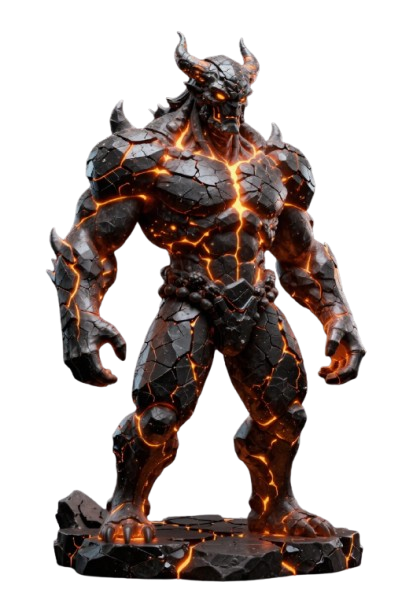
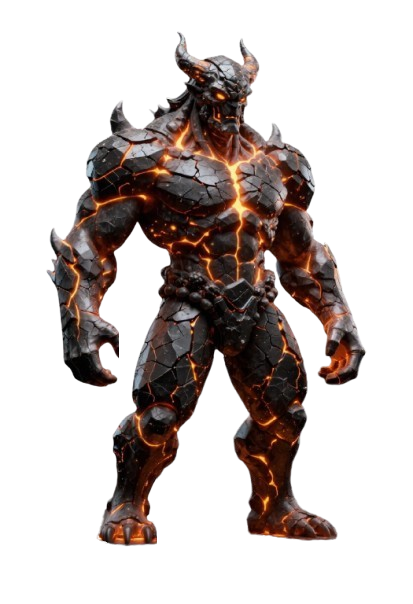
Лавовый Титан: водопад, rim light, heat haze (v2.5.39)
- boss_lava.png — каменный демон с трещинами магмы (skin 2026...)
- bg/lava.png — лавовый водопад в каньоне (bg 6)
- CSS .bt-lava:
  · фон + animation:wb-lava-bg-flicker 3.2s — brightness ±15%
    + hue-rotate ±3° (живая лава мерцает)
  · ::before тёмный туман с оранжевым отблеском (34% высоты)
  · ::after backdrop-filter blur(.7px) + skew над ВСЕЙ сценой
    (z:8) — heat haze дрожит за 4с, маска сверху для плавного края
  · .wb-bimg2: --boss-glow:#ff5520, маска ног 22%, тройная анимация:
    - wb-bfloat 4.2s (медленное парение, тяжесть титана)
    - wb-lava-rim 3.2s (rim light синхронно с фоном)
  · 2-слойный drop-shadow до 44px (без квадратного halo)

Превью: /boss_scene_lava.html

diff --git a/webapp/boss_scene_lava.html b/webapp/boss_scene_lava.html
@@ -1,0 +1,160 @@
+<!doctype html>
+<html lang="ru"><head>
+<meta charset="utf-8">
+<meta name="viewport" content="width=390,initial-scale=1">
+<title>WB · Боевая сцена · ЛАВОВЫЙ ТИТАН</title>
+<style>
+  *{box-sizing:border-box;margin:0;padding:0}
+  html,body{height:100%}
+  body{background:#020005;color:#e0e0e0;font:14px -apple-system,Segoe UI,Roboto,sans-serif;
+    display:flex;align-items:center;justify-content:center;min-height:100vh;padding:18px;}
+  .row{display:flex;flex-wrap:wrap;align-items:flex-start;gap:18px;}
+
+  .scene{position:relative;width:390px;height:680px;border-radius:14px;overflow:hidden;
+    background:#1a0500;border:1px solid rgba(255,80,0,.4);
+    box-shadow:0 0 60px rgba(255,80,0,.3);}
+
+  /* ── 1. ФОН — лавовый водопад, мерцает яркостью ── */
+  .bg{position:absolute;inset:0;z-index:1;
+    background-image:url('bosses/bg/lava.png');
+    background-size:cover;background-position:center bottom;
+    animation:bg-flicker 3.2s ease-in-out infinite;}
+  @keyframes bg-flicker{
+    0%,100%{filter:brightness(.95) saturate(1.05) hue-rotate(0deg)}
+    35%   {filter:brightness(1.15) saturate(1.2)  hue-rotate(-3deg)}
+    60%   {filter:brightness(.92) saturate(1.1)  hue-rotate(2deg)}}
+  /* Тёмный туман с оранжевым у пола */
+  .bg::after{content:"";position:absolute;left:0;right:0;bottom:0;height:34%;
+    background:linear-gradient(to top,
+      rgba(40,5,0,.85) 0%, rgba(80,15,0,.5) 30%,
+      rgba(80,15,0,.15) 65%, transparent 100%);
+    pointer-events:none;}
+
+  /* ── 2. БОСС — на камнях, перед лавопадом ── */
+  .boss-wrap{position:absolute;left:50%;bottom:8%;z-index:5;
+    transform:translateX(-50%);pointer-events:none;
+    height:68%;}
+  .boss{height:100%;width:auto;display:block;
+    -webkit-mask-image:linear-gradient(to bottom,
+      black 0%, black 78%, rgba(0,0,0,.55) 90%, transparent 100%);
+    mask-image:linear-gradient(to bottom,
+      black 0%, black 78%, rgba(0,0,0,.55) 90%, transparent 100%);
+    /* Медленное дыхание + rim light синхронно с фоном */
+    animation:boss-breathe 4.2s ease-in-out infinite,
+              boss-rim 3.2s ease-in-out infinite;}
+  @keyframes boss-breathe{
+    0%,100%{transform:scale(1)    translateY(0)}
+    50%   {transform:scale(1.03)  translateY(-4px)}}
+  /* Rim light — контурное свечение от водопада сзади */
+  @keyframes boss-rim{
+    0%,100%{filter:
+      drop-shadow(0 0 12px rgba(255,90,20,.85))
+      drop-shadow(0 0 26px rgba(220,50,0,.6))
+      brightness(1)
+      saturate(1.15);}
+    50%{filter:
+      drop-shadow(0 0 22px rgba(255,160,40,1))
+      drop-shadow(0 0 44px rgba(255,80,0,.85))
+      brightness(1.15)
+      saturate(1.35);}}
+
+  /* ── 3. ИСКРЫ медленно вверх ── */
+  .vfx{position:absolute;inset:0;z-index:6;pointer-events:none;overflow:hidden;}
+  .p{position:absolute;width:5px;height:5px;border-radius:50%;
+    background:#ff8833;
+    box-shadow:0 0 10px #ff8833,0 0 20px #ff5500;
+    opacity:0;animation:p-up 7s linear infinite;}
+  .p.s2{width:3px;height:3px;animation-duration:9s;background:#ffcc44;
+    box-shadow:0 0 8px #ffcc44,0 0 18px #ffaa00;}
+  .p.s3{width:7px;height:7px;animation-duration:8s;opacity:.7;background:#ff5500;
+    box-shadow:0 0 12px #ff5500,0 0 22px #cc2200;}
+  @keyframes p-up{
+    0%{transform:translateY(0) scale(.3);opacity:0}
+    8%{opacity:1}
+    88%{opacity:.7}
+    100%{transform:translateY(-460px) scale(1.1);opacity:0}}
+  .p:nth-child(1){left:6%; bottom:8%; animation-delay:.0s}
+  .p:nth-child(2){left:16%;bottom:6%; animation-delay:1.4s}
+  .p:nth-child(3){left:26%;bottom:8%; animation-delay:.7s}
+  .p:nth-child(4){left:36%;bottom:6%; animation-delay:2.1s}
+  .p:nth-child(5){left:46%;bottom:8%; animation-delay:.3s}
+  .p:nth-child(6){left:56%;bottom:6%; animation-delay:1.8s}
+  .p:nth-child(7){left:66%;bottom:8%; animation-delay:1.1s}
+  .p:nth-child(8){left:76%;bottom:6%; animation-delay:2.5s}
+  .p:nth-child(9){left:86%;bottom:8%; animation-delay:.9s}
+  .p:nth-child(10){left:94%;bottom:6%;animation-delay:3.0s}
+  .p:nth-child(11){left:12%;bottom:7%;animation-delay:3.7s}
+  .p:nth-child(12){left:42%;bottom:7%;animation-delay:4.2s}
+  .p:nth-child(13){left:62%;bottom:7%;animation-delay:5.0s}
+  .p:nth-child(14){left:82%;bottom:7%;animation-delay:4.7s}
+  .p:nth-child(15){left:32%;bottom:7%;animation-delay:5.5s}
+  .p:nth-child(16){left:72%;bottom:7%;animation-delay:6.0s}
+  .p:nth-child(17){left:22%;bottom:7%;animation-delay:6.5s}
+  .p:nth-child(18){left:52%;bottom:7%;animation-delay:7.0s}
+
+  /* ── 4. HEAT HAZE — поверх всей сцены ── */
+  .haze{position:absolute;inset:0;z-index:8;pointer-events:none;
+    backdrop-filter:blur(.7px);
+    -webkit-backdrop-filter:blur(.7px);
+    -webkit-mask-image:linear-gradient(to top, black 0%, black 70%, transparent 100%);
+    mask-image:linear-gradient(to top, black 0%, black 70%, transparent 100%);
+    animation:haze-shimmer 4s ease-in-out infinite;}
+  @keyframes haze-shimmer{
+    0%,100%{transform:translate(0,0) skewX(0)}
+    25%   {transform:translate(-2px,1px) skewX(.5deg)}
+    50%   {transform:translate(1.5px,-1px) skewX(-.4deg)}
+    75%   {transform:translate(-1px,1px) skewX(.3deg)}}
+
+  .title{position:absolute;top:14px;left:14px;right:14px;z-index:10;
+    display:flex;justify-content:space-between;align-items:center;
+    font-size:11px;font-weight:800;letter-spacing:2px;color:#ff5520;
+    text-shadow:0 0 8px rgba(255,80,0,.8);text-transform:uppercase;}
+  .title .hp{font-family:'Courier New',monospace;color:#ff4488;}
+
+  .legend{max-width:340px;font-size:12px;line-height:1.6;color:#ffaa88;}
+  .legend h3{color:#ff5520;font-size:14px;margin-bottom:10px;letter-spacing:1px;}
+  .legend code{background:rgba(255,80,0,.1);padding:1px 5px;border-radius:3px;color:#ffcc88;font-size:11px;}
+  .legend ul{padding-left:18px;margin:6px 0;}
+  .legend li{margin-bottom:4px;}
+</style>
+</head>
+<body>
+<div class="row">
+  <div class="scene">
+    <div class="bg"></div>
+    <div class="title">
+      <span>🌋 ЛАВОВЫЙ ТИТАН</span>
+      <span class="hp">HP 14 200 / 19 000</span>
+    </div>
+    <div class="boss-wrap">
+      <img class="boss" src="bosses/boss_lava.png" alt="Lava">
+    </div>
+    <div class="vfx">
+      <div class="p"></div><div class="p s2"></div><div class="p s3"></div><div class="p"></div>
+      <div class="p s2"></div><div class="p"></div><div class="p s3"></div><div class="p s2"></div>
+      <div class="p"></div><div class="p s3"></div><div class="p"></div><div class="p s2"></div>
+      <div class="p s3"></div><div class="p"></div><div class="p s2"></div><div class="p"></div>
+      <div class="p s3"></div><div class="p"></div>
+    </div>
+    <div class="haze"></div>
+  </div>
+
+  <div class="legend">
+    <h3>📋 Лавовый Титан — что собрано</h3>
+    <ul>
+      <li><b>Фон-водопад</b> — лавовый поток в каньоне (<code>bg/lava.png</code>)</li>
+      <li><b>Мерцание лавы</b> — brightness ±15% + hue-rotate ±3°
+        за 3.2с (живой огонь)</li>
+      <li><b>Босс на камнях</b> — bottom 8%, спина перед водопадом</li>
+      <li><b>Rim light</b> — 2-слойный <code>drop-shadow #ff5520</code>
+        пульсирует синхронно с фоном (3.2с) — свет водопада на броне</li>
+      <li><b>Медленное дыхание</b> — scale 1→1.03 за 4.2с (тяжесть титана)</li>
+      <li><b>Маска ног</b> — нижние 22% растворяются в туман</li>
+      <li><b>Heat haze</b> <code>z:8</code> — backdrop-blur(.7px) + skew
+        над ВСЕЙ сценой, маска сверху → плавный край</li>
+      <li><b>18 искр</b> — медленные 7–9с, 3 размера (оранжевые/жёлтые/красные)</li>
+    </ul>
+  </div>
+</div>
+</body>
+</html>

diff --git a/webapp/wb_html_battle_css.js b/webapp/wb_html_battle_css.js
@@ -85,6 +85,38 @@ window.WBBattleCSS = (() => {
     rgba(0,0,0,.85) 0%, rgba(15,5,35,.55) 35%,
     rgba(15,5,35,.15) 70%, transparent 100%);}
 
+/* Лавовый Титан — лавовый водопад в каньоне.
+   Rim light: за спиной босса яркий свет, ему нужно сильное оранжевое
+   контурное свечение. Heat haze глобально — горячий воздух плавает. */
+.wb-boss-zone.bt-lava{
+  background-image:url('bosses/bg/lava.png');
+  background-size:cover;background-position:center bottom;background-color:#1a0500;
+  /* Лавовый водопад мерцает яркостью — медленнее, более «текучий» */
+  animation:wb-lava-bg-flicker 3.2s ease-in-out infinite;}
+@keyframes wb-lava-bg-flicker{
+  0%,100%{filter:brightness(.95) saturate(1.05) hue-rotate(0deg)}
+  35%   {filter:brightness(1.15) saturate(1.2)  hue-rotate(-3deg)}
+  60%   {filter:brightness(.92) saturate(1.1)  hue-rotate(2deg)}}
+/* Тёмный туман с оранжевым отблеском у пола */
+.wb-boss-zone.bt-lava::before{content:"";position:absolute;left:0;right:0;bottom:0;
+  height:34%;pointer-events:none;z-index:1;
+  background:linear-gradient(to top,
+    rgba(40,5,0,.85) 0%, rgba(80,15,0,.5) 30%,
+    rgba(80,15,0,.15) 65%, transparent 100%);}
+/* Heat haze — глобальное дрожание горячего воздуха поверх ВСЕЙ сцены.
+   Слабое skew + смещение, маска снизу вверх для растворения края. */
+.wb-boss-zone.bt-lava::after{content:"";position:absolute;inset:0;pointer-events:none;z-index:8;
+  backdrop-filter:blur(.7px);
+  -webkit-backdrop-filter:blur(.7px);
+  -webkit-mask-image:linear-gradient(to top, black 0%, black 70%, transparent 100%);
+  mask-image:linear-gradient(to top, black 0%, black 70%, transparent 100%);
+  animation:wb-lava-haze 4s ease-in-out infinite;}
+@keyframes wb-lava-haze{
+  0%,100%{transform:translate(0,0) skewX(0)}
+  25%   {transform:translate(-2px,1px) skewX(.5deg)}
+  50%   {transform:translate(1.5px,-1px) skewX(-.4deg)}
+  75%   {transform:translate(-1px,1px) skewX(.3deg)}}
+
 /* Древний Страж — улей с фиолетовыми коконами. Bio-luminescence:
    фон медленно «дышит» зумом + коконы пульсируют синхронно с боссом. */
 .wb-boss-zone.bt-spider{
@@ -191,6 +223,28 @@ window.WBBattleCSS = (() => {
 .wb-boss-zone.bt-lich .wb-bimg2{
   -webkit-mask-image:linear-gradient(to bottom, black 0%, black 78%, rgba(0,0,0,.55) 90%, transparent 100%);
   mask-image:linear-gradient(to bottom, black 0%, black 78%, rgba(0,0,0,.55) 90%, transparent 100%);}
+
+/* Лавовый Титан: rim light от водопада сзади + медленное дыхание.
+   Сильное оранжевое drop-shadow создаёт контурный свет на каменной броне. */
+.wb-boss-zone.bt-lava .wb-bimg2{
+  --boss-glow:#ff5520;
+  -webkit-mask-image:linear-gradient(to bottom, black 0%, black 78%, rgba(0,0,0,.55) 90%, transparent 100%);
+  mask-image:linear-gradient(to bottom, black 0%, black 78%, rgba(0,0,0,.55) 90%, transparent 100%);
+  animation:wb-bfloat 4.2s ease-in-out infinite,
+            wb-lava-rim 3.2s ease-in-out infinite;}
+/* Rim light: 2 слоя — яркий контур от водопада + общий тёплый glow.
+   Анимация мерцает синхронно с фоном-водопадом (3.2s). */
+@keyframes wb-lava-rim{
+  0%,100%{filter:
+    drop-shadow(0 0 12px rgba(255,90,20,.85))
+    drop-shadow(0 0 26px rgba(220,50,0,.6))
+    brightness(1)
+    saturate(1.15);}
+  50%{filter:
+    drop-shadow(0 0 22px rgba(255,160,40,1))
+    drop-shadow(0 0 44px rgba(255,80,0,.85))
+    brightness(1.15)
+    saturate(1.35);}}
 
 /* Древний Страж: фиолетовое bio-luminescence свечение + быстрая вибрация
    конечностей (насекомое). Свечение пульсирует синхронно с фоном-ульем. */

diff --git a/version.py b/version.py
@@ -3,9 +3,9 @@ version.py — текущая версия проекта Duel Arena.
 Обновляется при каждом значимом изменении.
 """
 
-VERSION = "2.5.38"
-VERSION_LABEL = "v2.5.38 — Древний Страж: улей с коконами, bio-luminescence, вибрация, слой слизи"
+VERSION = "2.5.39"
+VERSION_LABEL = "v2.5.39 — Лавовый Титан: водопад лавы, rim light, heat haze, медленное дыхание"
 
 # Игровая версия для UI (bot / mini app). Один источник истины.
 # При деплое с изменениями кода увеличивать на +0.01 (например 2.01 → 2.02).
-GAME_VERSION = "10.12"
+GAME_VERSION = "10.13"
